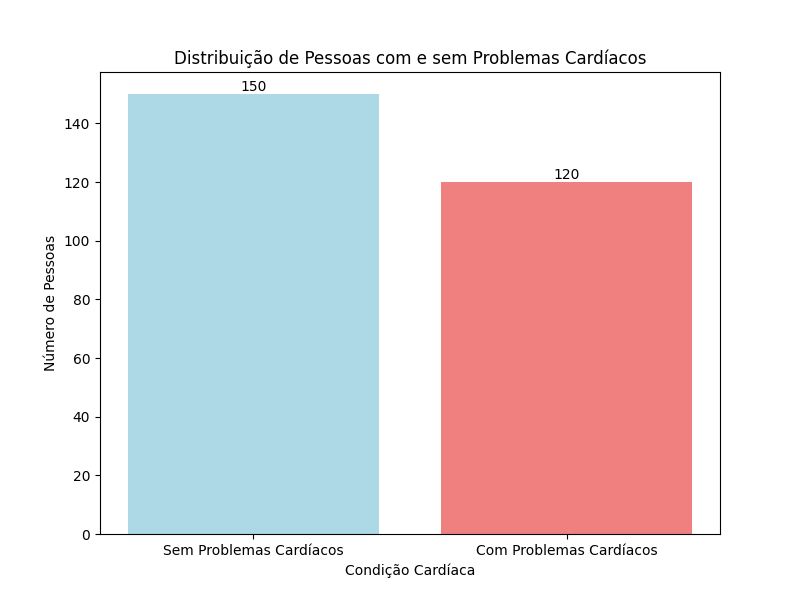
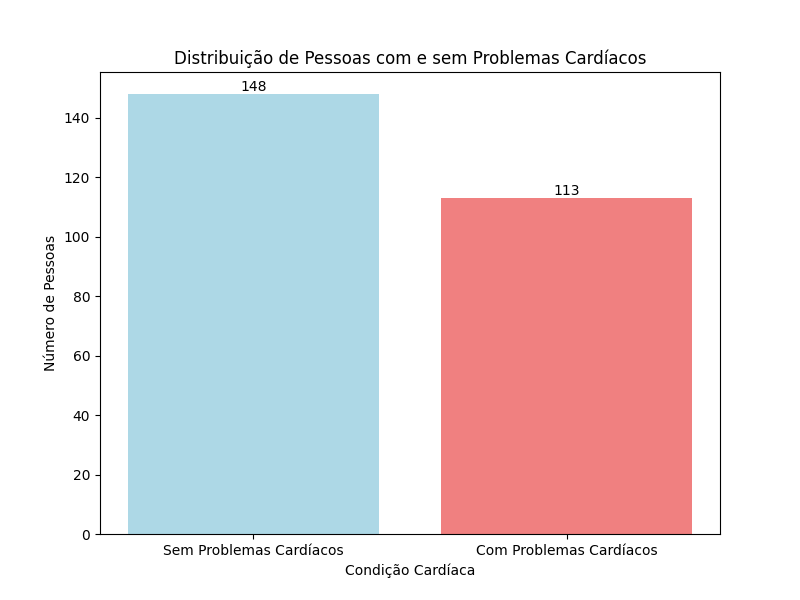
feat retirada de outliers

diff --git a/main.py b/main.py
@@ -6,12 +6,13 @@ import datetime
 import matplotlib.pyplot as plt
 from sklearn.model_selection import train_test_split
 from sklearn.preprocessing import StandardScaler
-from sklearn.neighbors import KNeighborsClassifier
+from sklearn.neighbors import KNeighborsClassifier, LocalOutlierFactor
 from sklearn.metrics import accuracy_score, confusion_matrix
 from sklearn.svm import SVC
 from sklearn.neural_network import MLPClassifier
 from sklearn.linear_model import LogisticRegression
 from sklearn import svm
+from scipy import stats
 
 def limpa_string(string):
   string = string.replace(" ", "")
@@ -40,12 +41,37 @@ plt.title('Gráfico de Outliers Dataset')
 plt.xticks(rotation=90)
 plt.show()
 nomeGraficos.append("Matriz de Outliers")
+
+# Calcule os limites do boxplot
+Q1 = X.quantile(0.25)
+Q3 = X.quantile(0.75)
+IQR = Q3 - Q1
+# Identifique outliers
+outliers = ((X < (Q1 - 1.5 * IQR)) | (X > (Q3 + 1.5 * IQR))).sum()
+print("Quantidade de outliers por coluna:")
+
+# =================================================================================================
+# Mostre a quantidade de outliers por coluna
+clf = LocalOutlierFactor(n_neighbors=20)
+scores = clf.fit_predict(X)
+outliers = X[scores < 0]
+# =================================================================================================
+
+# Retirada dos outliers
+numeric_columns = data.select_dtypes(include=[int, float]).columns
+# Defina um limite para o escore Z (por exemplo, 3) para identificar outliers
+z_score_threshold = 3
+for column in numeric_columns:
+    z_scores = stats.zscore(data[column])
+    data = data[(z_scores < z_score_threshold) & (z_scores > -z_score_threshold)]
+# =================================================================================================
+
 # Obtenha o número de dados aproveitados
 n_dados = len(data)
 percent_75 = int(0.75 * n_dados)
 percent_25 = n_dados - percent_75
-
-print("Quantidade de dados utilizados: " + str(n_dados))
+print("Retirado " + str(len(outliers)) + " outliers")
+print("Quantidade de dados utilizados (retirando outliers): " + str(n_dados))
 print("75% dos dados (treinamento): " + str(percent_75))
 print("25% dos dados (testes): " + str(percent_25))
 # =================================================================================================
